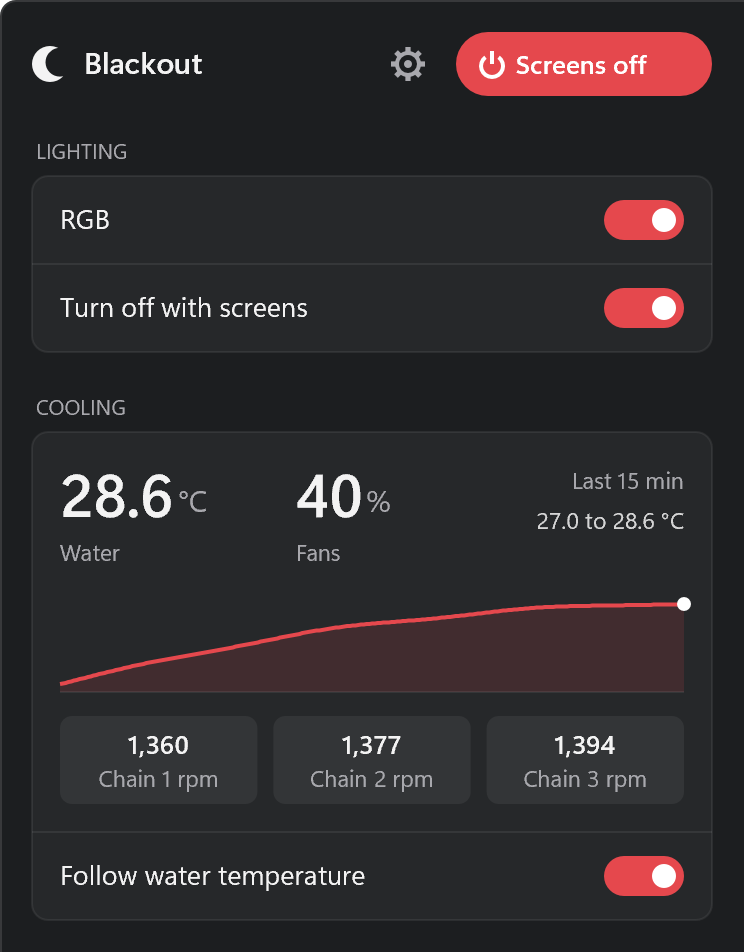
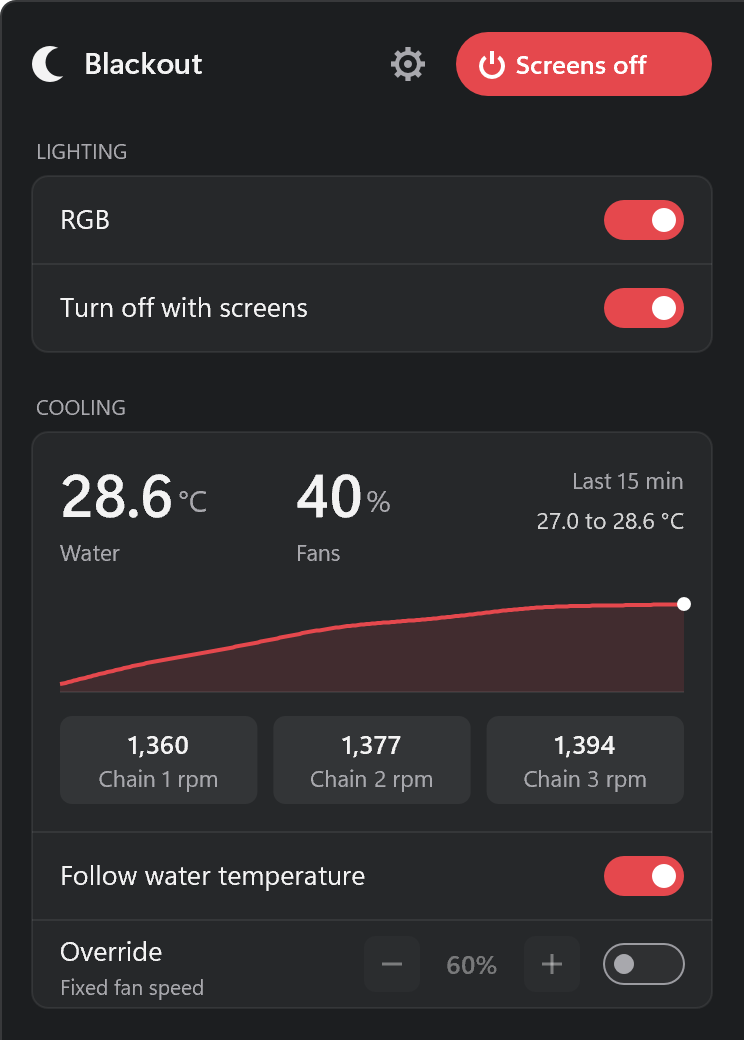
Fan override: run the fans at one fixed speed instead of the curve
A toggle and a 20 to 100% stepper (default 60%, steps of 5) under "Follow
water temperature" on the panel, plus "Override at N%" in the tray menu's Fan
curve submenu. Applied at once, not capped by max fan speed, kept in
HKCU\Software\Blackout (Override, OverrideDuty). It pauses while the water is
above the point where the curve reaches its top, so the curve can still cool
a hot loop, and resumes 2 C below that point. A lost reading still hands the
fans back to the BIOS. The panel readout and the tooltip show the state.

diff --git a/src/panel.c b/src/panel.c
@@ -36,7 +36,7 @@
 
 enum {
     H_NONE, H_SCREENS, H_GEAR, H_BACK, H_TAB_FANS, H_TAB_WAKE, H_TAB_SYSTEM, H_RGB, H_SYNC, H_CURVE, H_START, H_EXIT,
-    H_MAX_DN, H_MAX_UP, H_HYS_DN, H_HYS_UP, H_RESET, H_HOTKEY, H_WAKE_CLICK, H_WAKE_ESC, H_NOTICE, H_COUNT
+    H_MAX_DN, H_MAX_UP, H_HYS_DN, H_HYS_UP, H_RESET, H_HOTKEY, H_WAKE_CLICK, H_WAKE_ESC, H_NOTICE, H_OVR_DN, H_OVR_UP, H_OVR, H_COUNT
 };
 enum { F_BRAND, F_ROW, F_SMALL, F_BIG, F_UNIT, F_BOLD, F_TINY, F_COUNT };
 enum { V_MAIN, V_FANS, V_WAKE, V_SYSTEM };
@@ -279,22 +279,26 @@ static void toggleRow(LPCWSTR label, LPCWSTR hint, float x, float y, float w, in
     if (hint) text(hint, F_TINY, rc(x + INSET, y + 26, w - 80, 14), dim(), a, DWRITE_TEXT_ALIGNMENT_LEADING);
     toggle(x + w - INSET - 40, y + 12, on, hover == id, enabled);
 }
-// Label and hint on the left, [-] value [+] on the right.
-static void stepperRow(LPCWSTR label, LPCWSTR hint, LPCWSTR value, float x, float y, float w, int down, int up, BOOL canDown, BOOL canUp) {
-    float bx = x + w - INSET - 28;
-    text(label, F_ROW, rc(x + INSET, y + 6, w - 160, 22), ink(), 1, DWRITE_TEXT_ALIGNMENT_LEADING);
-    text(hint, F_TINY, rc(x + INSET, y + 26, w - 160, 14), dim(), 1, DWRITE_TEXT_ALIGNMENT_LEADING);
+// [-] value [+] in a row at y, ending at right. a dims the whole control.
+static void stepper(LPCWSTR value, float right, float y, int down, int up, BOOL canDown, BOOL canUp, float a) {
+    float bx = right - 28;
     for (int i = 0; i < 2; i++) {
         int id = i ? up : down;
         BOOL can = i ? canUp : canDown;
         D2D1_RECT_F r = rc(i ? bx : bx - 28 - 52, y + 8, 28, 28);
         float cx = (r.left + r.right) / 2, cy = (r.top + r.bottom) / 2;
         if (can) hit[id] = r;
-        fillRound(r, 6, tone(), !can ? 0.03f : hover == id ? 0.12f : 0.06f);
-        line(cx - 5, cy, cx + 5, cy, ink(), can ? 1 : 0.3f, 1.5f);
-        if (i) line(cx, cy - 5, cx, cy + 5, ink(), can ? 1 : 0.3f, 1.5f);
+        fillRound(r, 6, tone(), (!can ? 0.03f : hover == id ? 0.12f : 0.06f) * a);
+        line(cx - 5, cy, cx + 5, cy, ink(), (can ? 1 : 0.3f) * a, 1.5f);
+        if (i) line(cx, cy - 5, cx, cy + 5, ink(), (can ? 1 : 0.3f) * a, 1.5f);
     }
-    text(value, F_BOLD, rc(bx - 52, y + 13, 52, 18), ink(), 1, DWRITE_TEXT_ALIGNMENT_CENTER);
+    text(value, F_BOLD, rc(bx - 52, y + 13, 52, 18), ink(), a, DWRITE_TEXT_ALIGNMENT_CENTER);
+}
+// Label and hint on the left, [-] value [+] on the right.
+static void stepperRow(LPCWSTR label, LPCWSTR hint, LPCWSTR value, float x, float y, float w, int down, int up, BOOL canDown, BOOL canUp) {
+    text(label, F_ROW, rc(x + INSET, y + 6, w - 160, 22), ink(), 1, DWRITE_TEXT_ALIGNMENT_LEADING);
+    text(hint, F_TINY, rc(x + INSET, y + 26, w - 160, 14), dim(), 1, DWRITE_TEXT_ALIGNMENT_LEADING);
+    stepper(value, x + w - INSET, y, down, up, canDown, canUp, 1);
 }
 
 // ---- Layout ----
@@ -305,7 +309,7 @@ static int capped(int d) { return d > fanMax ? fanMax : d; }
 
 static float mainHeight(void) {
     float h = PAD + 32 + SECT + LABEL + 2 * ROW;
-    if (hasCurve) h += SECT + LABEL + INSET + 56 + GAP + 48 + GAP + 44 + INSET + ROW;
+    if (hasCurve) h += SECT + LABEL + INSET + 56 + GAP + 48 + GAP + 44 + INSET + 2 * ROW;
     else if (fanWhy >= 2) h += GAP + ROW; // notice: the fan curve is set up but can't run
     return h + PAD;
 }
@@ -409,7 +413,7 @@ static void paintMain(float x, float y, float w) {
     y += 2 * ROW + SECT;
 
     section(L"COOLING", x, &y, w);
-    card(x, y, w, INSET + 56 + GAP + 48 + GAP + 44 + INSET + ROW);
+    card(x, y, w, INSET + 56 + GAP + 48 + GAP + 44 + INSET + 2 * ROW);
     float cy = y + INSET;
     // Two big readings on the left, the graph's range on the right.
     if (coolant < 0) lstrcpyW(s, L"--");
@@ -421,8 +425,10 @@ static void paintMain(float x, float y, float w) {
     else wsprintfW(s, L"%d", fanDuty);
     text(s, F_BIG, rc(ix + 118, cy - 4, 110, 40), ink(), 1, DWRITE_TEXT_ALIGNMENT_LEADING);
     if (fanDuty >= 0) text(L"%", F_UNIT, rc(ix + 120 + measure(s, F_BIG), cy + 10, 24, 22), dim(), 1, DWRITE_TEXT_ALIGNMENT_LEADING);
-    text(fanDuty >= 0 && fanMax < 100 && fanDuty >= fanMax ? L"Fans (at max)" : L"Fans", F_SMALL, rc(ix + 118, cy + 38, 110, 18), dim(), 1,
-         DWRITE_TEXT_ALIGNMENT_LEADING);
+    int ov = ovState();
+    text(ov == 1 ? L"Fans (override)" : ov == 2 ? (srcDev ? L"Override paused: too hot" : L"Override paused: water hot")
+         : fanDuty >= 0 && fanMax < 100 && fanDuty >= fanMax ? L"Fans (at max)" : L"Fans",
+         F_SMALL, rc(ix + 118, cy + 38, iw - 118, 18), ov == 2 ? warn() : dim(), 1, DWRITE_TEXT_ALIGNMENT_LEADING);
     int lo = 99999, hi = -99999;
     for (int i = 0; i < historyLen; i++) {
         int v = history[(historyPos - historyLen + i + HISTORY) % HISTORY];
@@ -474,6 +480,22 @@ static void paintMain(float x, float y, float w) {
     cy += 44 + INSET;
     divider(x, cy, w);
     toggleRow(srcDev ? L"Follow the temperature" : L"Follow water temperature", NULL, x, cy, w, H_CURVE, curveOn, TRUE);
+    // Override: a fixed speed instead of the curve. Works while the curve is on; the speed can be set before switching on.
+    cy += ROW;
+    divider(x, cy, w);
+    float a = curveOn ? 1 : 0.4f, right = x + w - INSET - 40 - GAP;
+    if (curveOn) {
+        hit[H_OVR] = rc(x, cy, w, ROW);
+        hoverFill(H_OVR, hit[H_OVR]);
+    }
+    text(L"Override", F_ROW, rc(ix, cy + 6, right - 108 - ix - 8, 22), ink(), a, DWRITE_TEXT_ALIGNMENT_LEADING);
+    text(ov == 2 ? L"Paused while hot" : L"Fixed fan speed", F_TINY, rc(ix, cy + 26, right - 108 - ix - 8, 14), ov == 2 ? warn() : dim(), a,
+         DWRITE_TEXT_ALIGNMENT_LEADING);
+    wsprintfW(s, L"%d%%", ovDuty);
+    stepper(s, right, cy, H_OVR_DN, H_OVR_UP, curveOn && ovDuty > 20, curveOn && ovDuty < 100, ovOn && curveOn ? 1 : 0.4f);
+    // A button at the end of the range still takes the click, so it never falls through to the switch.
+    if (curveOn) hit[H_OVR_DN] = rc(right - 108, cy + 8, 28, 28), hit[H_OVR_UP] = rc(right - 28, cy + 8, 28, 28);
+    toggle(x + w - INSET - 40, cy + 12, ovOn, hover == H_OVR, curveOn);
 }
 
 static void paintFans(float x, float y, float w) {
@@ -882,6 +904,18 @@ static void panelClick(int id) {
         if (panelTest) curveOn = !curveOn, fanDuty = curveOn ? curveAt(coolant) : -1;
         else SendMessageW(panelOwner, WM_COMMAND, ID_CURVE, 0);
         break;
+    case H_OVR:
+        if (panelTest) ovOn = !ovOn, fanDuty = coolant < 0 ? -1 : fanTarget(TRUE);
+        else SendMessageW(panelOwner, WM_COMMAND, ID_OVERRIDE, 0);
+        break;
+    case H_OVR_DN:
+    case H_OVR_UP:
+        ovDuty += id == H_OVR_UP ? 5 : -5;
+        ovDuty = ovDuty < 20 ? 20 : ovDuty > 100 ? 100 : ovDuty;
+        setPref(L"OverrideDuty", ovDuty);
+        if (panelTest) fanDuty = coolant < 0 ? -1 : fanTarget(TRUE);
+        else if (ovOn) curveApplyNow(), tipUpdate();
+        break;
     case H_START:
         if (panelTest) setPref(L"Start", !pref(L"Start", 1));
         else toggleStartup();
@@ -1149,7 +1183,7 @@ static BOOL panelShow(HWND owner) {
 //   --panel-test  [flags]              open the panel with preview data; exits on close
 //   --panel-shot  [flags] out=<file>   draw one view off-screen to a .bmp, no window at all (README images, reviews)
 //   --panel-bench                      open and close five times, never shown; log time and memory to %TEMP%
-// Flags: fans wake system | light | x2 | nofans notadmin noread curveoff atcap nohist | hotkey wakes edited rgboff
+// Flags: fans wake system | light | x2 | nofans notadmin noread curveoff atcap nohist override ovhot | hotkey wakes edited rgboff
 //        hover=<id> drag=<point> shade=<percent> grey=<percent>
 
 static BOOL flag(LPCWSTR cmd, LPCWSTR name) {
@@ -1240,7 +1274,13 @@ static int panelDev(LPWSTR cmd) {
     setPref(L"HotkeyMode", flag(cmd, L"hotkey")), setPref(L"WakeClick", 1), setPref(L"WakeEsc", 1), setPref(L"Edited", flag(cmd, L"edited"));
     coolant = flag(cmd, L"noread") ? -1 : wcsstr(cmd, L"--panel-shot") ? 28.6 : getDword(L"Coolant", 286) / 10.0;
     curveOn = !flag(cmd, L"curveoff");
-    fanDuty = !curveOn || coolant < 0 ? -1 : flag(cmd, L"atcap") ? fanMax : curveAt(coolant);
+    ovOn = flag(cmd, L"override") || flag(cmd, L"ovhot"), ovDuty = 60;
+    if (hasCurve && coolant >= 0 && flag(cmd, L"ovhot")) {
+        double top = 0;
+        curvePeak(&top);
+        coolant = top + 1.5; // past the top of the curve: the override pauses
+    }
+    fanDuty = !curveOn || coolant < 0 ? -1 : flag(cmd, L"atcap") ? fanMax : fanTarget(TRUE);
     if (hasCurve && coolant >= 0 && !flag(cmd, L"nohist")) {
         // Preview data: a smooth warm-up that ends at the current reading.
         for (int i = 0; i < HISTORY; i++) {

diff --git a/src/blackout.c b/src/blackout.c
@@ -21,6 +21,7 @@
 #define ID_FANCTL    7
 #define ID_CURVE     8
 #define ID_DEVICES   9
+#define ID_OVERRIDE  10
 #define ID_FAN_AWAKE 100
 #define ID_FAN_SLEEP 200
 #define TIMER_OFF    1
@@ -943,22 +944,57 @@ static int curveAt(double t) {
     return d > fanMax ? fanMax : d;
 }
 
-// Re-applies the curve to the current reading straight away (used after a panel edit).
+// Override: one fixed duty instead of the curve, not capped by max. It pauses while the temperature is past the point
+// where the curve reaches its top (the curve runs then, never below the override) and resumes 2 C below that point.
+static BOOL ovOn, ovPaused;
+static int ovDuty = 60;
+
+// The top of the curve (capped by max) and the temperature where the curve gets there.
+static int curvePeak(double *at) {
+    int peak = 0;
+    for (int i = 0; i < curveN; i++)
+        if (curveD[i] > peak) peak = curveD[i];
+    if (peak > fanMax) peak = fanMax;
+    for (int i = 0; i < curveN; i++)
+        if (curveD[i] >= peak) {
+            *at = !i ? curveT[0] : curveT[i - 1] + (double)(peak - curveD[i - 1]) * (curveT[i] - curveT[i - 1]) / (curveD[i] - curveD[i - 1]);
+            break;
+        }
+    return peak;
+}
+
+// The duty for the current reading: the override, or the curve with its hysteresis (none when now is set).
+static int fanTarget(BOOL now) {
+    double top = 0;
+    if (!ovOn || curvePeak(&top) <= ovDuty) ovPaused = FALSE;
+    else if (coolant > top) ovPaused = TRUE;
+    else if (coolant <= top - 2) ovPaused = FALSE;
+    if (ovOn && !ovPaused) return ovDuty;
+    int up = curveAt(coolant), down = curveAt(coolant + fanHyst);
+    int duty = now || fanDuty < 0 || up > fanDuty ? up : down < fanDuty ? down : fanDuty;
+    return ovOn && duty < ovDuty ? ovDuty : duty;
+}
+
+// 1 = the override holds the fans, 2 = it is paused because the temperature is past the top of the curve.
+static int ovState(void) { return !ovOn || !curveOn || fanDuty < 0 ? 0 : ovPaused ? 2 : 1; }
+
+// Re-applies the curve (or the override) to the current reading straight away (used after a panel edit).
 static void curveApplyNow(void) {
     if (coolant < 0 || !curveOn) return;
-    int duty = curveAt(coolant);
+    int duty = fanTarget(TRUE);
     if (duty != fanDuty || !fanManual) fansSet(duty);
 }
 
 // Tray tooltip with the live reading, rewritten only when the whole-degree value or the duty changes.
 static void tipUpdate(void) {
     static int shown = -2;
-    int key = coolant < 0 ? -1 : (int)(coolant + 0.5) * 1000 + (fanDuty < 0 ? 999 : fanDuty);
+    int key = coolant < 0 ? -1 : ovState() * 100000 + (int)(coolant + 0.5) * 1000 + (fanDuty < 0 ? 999 : fanDuty);
     if (key == shown) return;
     shown = key;
     if (coolant < 0) lstrcpyW(nid.szTip, L"Blackout \x00B7 No temperature reading \x00B7 Fans on the BIOS curve");
     else if (fanDuty < 0) wsprintfW(nid.szTip, L"Blackout \x00B7 %s %d \x00B0" L"C \x00B7 Fans on the BIOS curve", srcLabel, (int)(coolant + 0.5));
-    else wsprintfW(nid.szTip, L"Blackout \x00B7 %s %d \x00B0" L"C \x00B7 Fans %d%%", srcLabel, (int)(coolant + 0.5), fanDuty);
+    else wsprintfW(nid.szTip, L"Blackout \x00B7 %s %d \x00B0" L"C \x00B7 Fans %d%%%s", srcLabel, (int)(coolant + 0.5), fanDuty,
+                   ovState() == 1 ? L" (override)" : ovState() == 2 ? L" (override paused)" : L"");
     Shell_NotifyIconW(NIM_MODIFY, &nid);
 }
 
@@ -990,8 +1026,7 @@ static void fanTick(void) {
         panelUpdate();
         return;
     }
-    int up = curveAt(coolant), down = curveAt(coolant + fanHyst);
-    int duty = fanDuty < 0 || up > fanDuty ? up : down < fanDuty ? down : fanDuty;
+    int duty = fanTarget(FALSE);
     if (duty != fanDuty || !fanManual) fansSet(duty);
     tipUpdate();
     panelUpdate();
@@ -1156,6 +1191,8 @@ static void showMenu(HWND hwnd) {
         else wsprintfW(label, L"%s %d.%d C, fans %d%%", srcLabel, (int)coolant, (int)(coolant * 10) % 10, fanDuty);
         AppendMenuW(curve, MF_STRING | MF_GRAYED, 0, label);
         AppendMenuW(curve, MF_STRING | (curveOn ? MF_CHECKED : 0), ID_CURVE, L"Follow the temperature");
+        wsprintfW(label, L"Override at %d%%", ovDuty);
+        AppendMenuW(curve, MF_STRING | (ovOn ? MF_CHECKED : 0) | (curveOn ? 0 : MF_GRAYED), ID_OVERRIDE, label);
         AppendMenuW(menu, MF_POPUP, (UINT_PTR)curve, L"Fan curve");
     }
     AppendMenuW(menu, MF_SEPARATOR, 0, NULL);
@@ -1320,6 +1357,13 @@ static LRESULT CALLBACK wndProc(HWND hwnd, UINT msg, WPARAM wp, LPARAM lp) {
             if (curveOn) fanTick();
             else fansRelease(), tipUpdate();
             return 0;
+        case ID_OVERRIDE:
+            ovOn = !ovOn;
+            setDword(L"Override", ovOn);
+            curveApplyNow();
+            tipUpdate();
+            panelUpdate();
+            return 0;
         case ID_DEVICES: {
             // Write the device report from this (elevated) instance, without opening it. For checking a machine remotely.
             WCHAR cmd[MAX_PATH + 32] = L"\"";
@@ -1449,6 +1493,8 @@ int WINAPI wWinMain(HINSTANCE hi, HINSTANCE hp, LPWSTR cmd, int show) {
     hasRam = GetFileAttributesW(fury) != INVALID_FILE_ATTRIBUTES;
     setFans(-1);
     litOn = getDword(L"RgbOn", 1), litWant = getDword(L"RgbWant", 1), curveOn = getDword(L"FanCurve", 1);
+    ovOn = getDword(L"Override", 0), ovDuty = (int)getDword(L"OverrideDuty", 60);
+    if (ovDuty < 20 || ovDuty > 100) ovDuty = 60;
     hasCurve = outCount && curveN && fansInit();
     // An elevated window drops messages from normal processes unless allowed (tray clicks and remote "screens off").
     ChangeWindowMessageFilterEx(hwnd, WM_COMMAND, MSGFLT_ALLOW, NULL);

diff --git a/tools/panel_shots.py b/tools/panel_shots.py
@@ -22,6 +22,9 @@ STATES = {
     "main-no-reading": "noread",
     "main-at-max": "atcap",
     "main-no-history": "nohist",
+    "main-override": "override",
+    "main-override-hot": "ovhot",
+    "main-override-curve-off": "override curveoff",
     "main-no-fans": "nofans",
     "main-light": "light",
     "fans": "fans",

diff --git a/AGENTS.md b/AGENTS.md
@@ -50,9 +50,9 @@ One hidden window. Everything is driven by `GUID_CONSOLE_DISPLAY_STATE` (`WM_POW
 - **Screens off click:** set AC video idle timeout to 1 s via powrprof, restore it on the next display-off event. Fallback after 6 s: `SC_MONITORPOWER`. The fallback leaves some iGPU DisplayPort outputs half awake, which makes monitors flash "No Signal"; that is what `[ddc]` fixes.
 - **`setRgb`:** writes `RgbOn`, refreshes the LINK hub, spawns OpenRGB and furyled. Changes during a 6 s busy window are queued; last one wins.
 
-State lives in `HKCU\Software\Blackout` (DWORDs): `RgbOn`, `Sync`, `FanCtl`, `FanAwake`, `FanSleep` (0 = same as awake). Curve state: `FanCurve` (1 = follow coolant), `RgbWant`, `HotkeyMode`, `WakeClick`, `WakeEsc`, the panel's overrides `Curve` (REG_SZ), `FanMax`, `Hysteresis`, and status it writes: `Coolant` (C x10, averaged), `FanDuty` (%, 0 = BIOS). Config lives in `blackout.ini` beside the exe (`[rgb]`, `[link]`, `[ddc]`, `[fans]`).
+State lives in `HKCU\Software\Blackout` (DWORDs): `RgbOn`, `Sync`, `FanCtl`, `FanAwake`, `FanSleep` (0 = same as awake). Curve state: `FanCurve` (1 = follow coolant), `Override` (1 = fixed duty instead of the curve), `OverrideDuty` (%), `RgbWant`, `HotkeyMode`, `WakeClick`, `WakeEsc`, the panel's overrides `Curve` (REG_SZ), `FanMax`, `Hysteresis`, and status it writes: `Coolant` (C x10, averaged), `FanDuty` (%, 0 = BIOS). Config lives in `blackout.ini` beside the exe (`[rgb]`, `[link]`, `[ddc]`, `[fans]`).
 
-- **Fan curve:** each 4 s tick reads one temperature (`[fans] source=`, default the LINK coolant sensor), averages it (alpha 0.13, about 30 s) and writes the curve duty to the `[fans] outputs=`. Up at once, down only to curve(t + hysteresis). 5 failed reads in a row, exit, `WM_ENDSESSION` and `PBT_APMSUSPEND` restore the saved BIOS mode and duty. After resume the chip is BIOS-controlled again and the next tick takes over afresh.
+- **Fan curve:** each 4 s tick reads one temperature (`[fans] source=`, default the LINK coolant sensor), averages it (alpha 0.13, about 30 s) and writes the curve duty to the `[fans] outputs=`. Up at once, down only to curve(t + hysteresis). The override (`fanTarget`) replaces the curve with `OverrideDuty`, not capped by max; while t is above where the capped curve reaches its peak (and that peak is above the override) it pauses and the curve runs, never below the override, until t is 2 C below that point. 5 failed reads in a row, exit, `WM_ENDSESSION` and `PBT_APMSUSPEND` restore the saved BIOS mode and duty. After resume the chip is BIOS-controlled again and the next tick takes over afresh.
 - **Panel** (`src/panel.c`): right-click opens a layered popup (`BlackoutPanel`, WS_POPUP, WS_EX_LAYERED, CS_DBLCLKS, DWM transitions off) so it appears and closes instantly. Closes on deactivate or Esc. A tray click within 300 ms of closing does not reopen it. Falls back to the plain menu if Direct2D fails.
   - **Placement:** flush against the taskbar on the tray's monitor and the screen edge. The taskbar's own window rectangle (`Shell_TrayWnd` / `Shell_SecondaryTrayWnd`) is used, not the monitor work area, which Windows sometimes reports as the whole screen after a display change. Square where it touches the taskbar and the screen edge, one rounded corner facing the desktop, drawn anti-aliased by the panel itself.
   - **Colour:** the background is the taskbar's colour, read from one row of taskbar pixels when the panel opens (per-channel median, used as is; owner chose this over lighter and darker variants), so it matches on any wallpaper, accent or transparency setting. Tried and dropped, do not retry without new evidence: DWM system backdrops (attribute 38) render as flat fallback colours on this kind of window; the accent-policy acrylic is about 88% tint with almost no see-through and ignores window regions, which left a square corner; and a hand-made blur of the screen behind the panel (commit b912ba9) worked but the owner preferred the flat colour.

diff --git a/README.md b/README.md
@@ -25,7 +25,7 @@ This works for a Blackout click and for Windows' own display timeout.
 <img src="docs/panel-system.png" width="280" alt="System and status">
 </p>
 
-- **Main:** Screens off, RGB, turn RGB off with the screens. With a fan curve: the temperature, fan speed, a 15 minute graph, RPM per fan and the curve on/off switch.
+- **Main:** Screens off, RGB, turn RGB off with the screens. With a fan curve: the temperature, fan speed, a 15 minute graph, RPM per fan, the curve on/off switch and the override.
 - **Settings > Fans:** the fan curve (drag a point, double-click to add one, right-click to remove one), max fan speed, how far the temperature must drop before fans slow down, reset.
 - **Settings > Wake:** Hotkey mode, and a list of what woke the screens last, with the device behind it.
 - **Settings > System:** Start with Windows, Exit, and a status list of what Blackout found on this PC.
@@ -65,6 +65,8 @@ One temperature drives up to 7 fans along a curve you draw in the panel. The usu
 4. Run Blackout as admin and tick **Start with Windows**. As admin this creates a logon task, so there is no UAC prompt at login.
 
 Edit the curve in the panel (Settings > Fans): drag a point, double-click the chart to add one, right-click a point to remove it, and set max fan speed and the slow-down margin. Changes apply at once and are kept in `HKCU\Software\Blackout` (`Curve`, `FanMax`, `Hysteresis`), which override the ini. **Reset to blackout.ini** drops them.
+
+**Override** (panel main view, or the tray menu) runs the fans at one fixed speed, 20 to 100%, instead of the curve. It pauses while the temperature is above the point where the curve reaches its top, and comes back once it is 2 C below that.
 
 Fans go up straight away and come down after the hysteresis. Motherboard fans go back to the BIOS curve when the temperature reading is lost for 20 s, on exit, sleep and shutdown, and when the curve is switched off. Set a sensible fixed speed or curve in the BIOS: it is what runs whenever Blackout does not.
 
